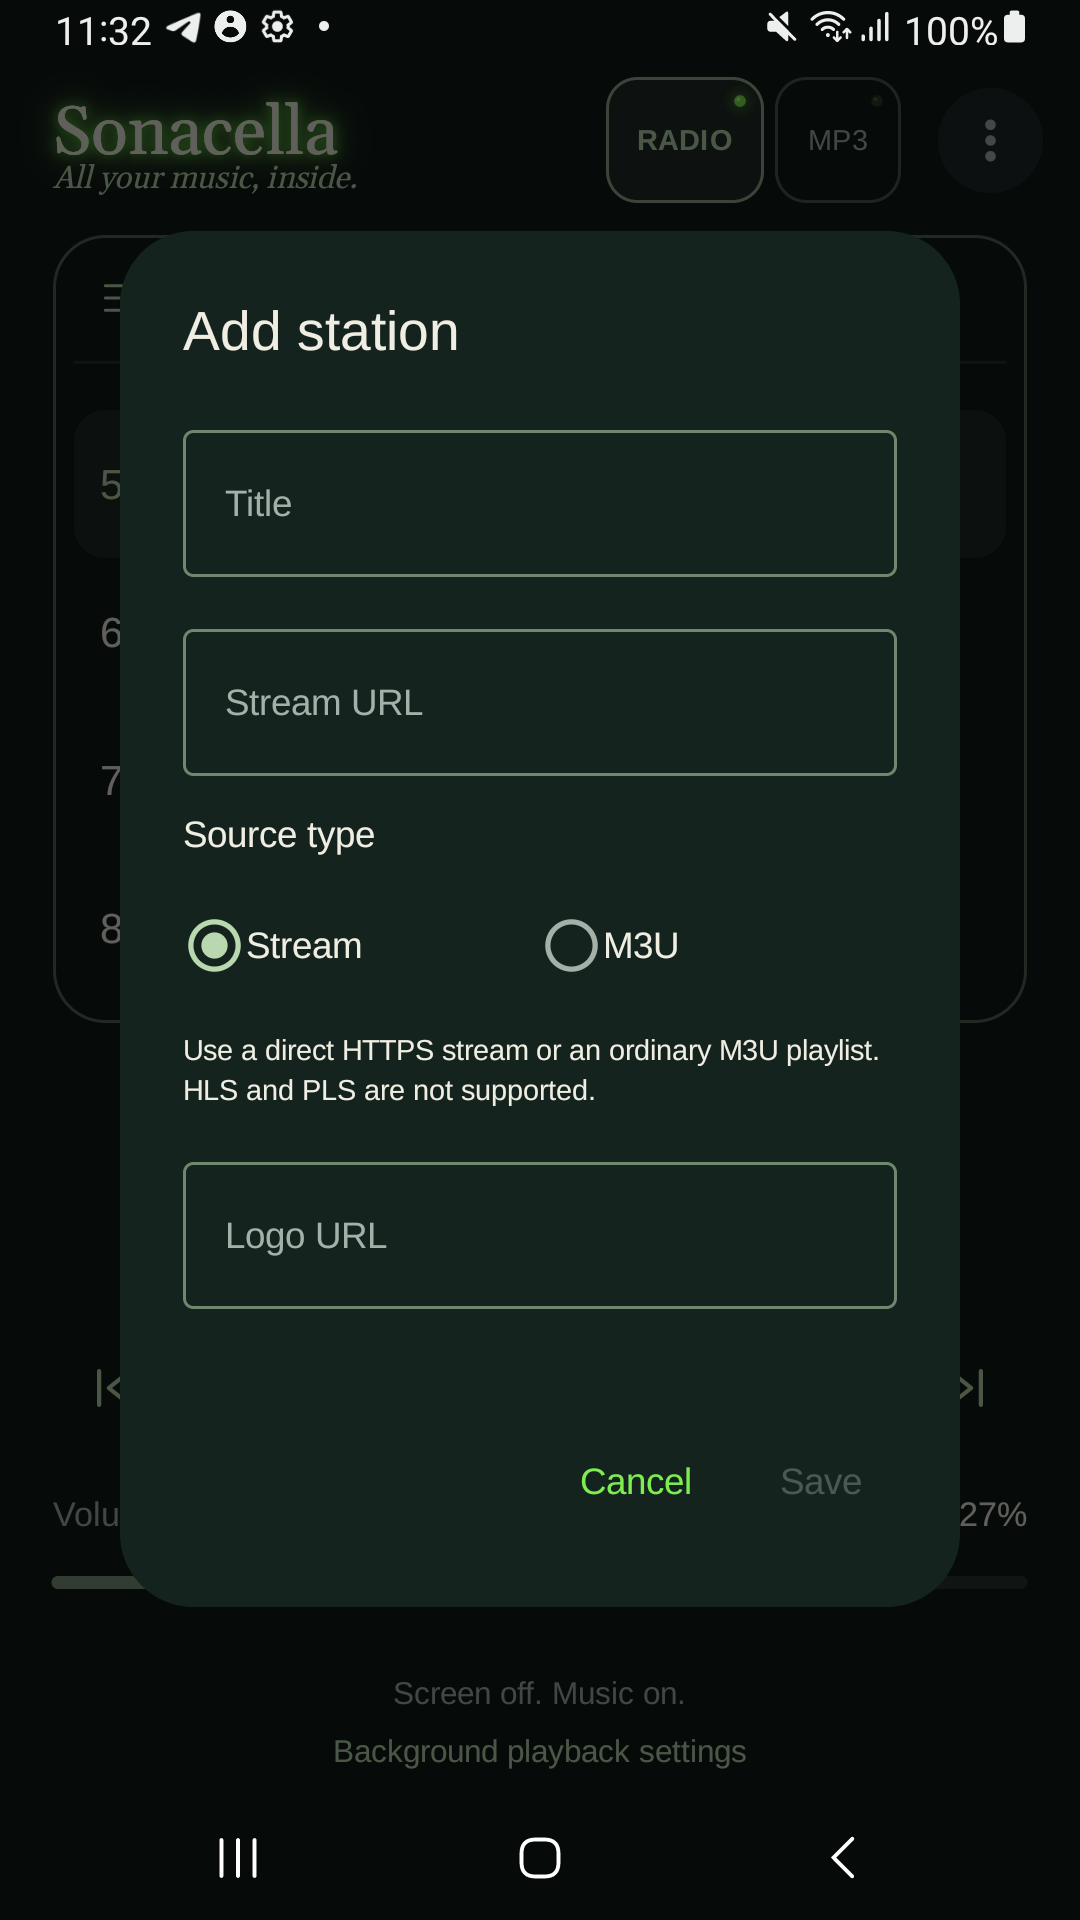
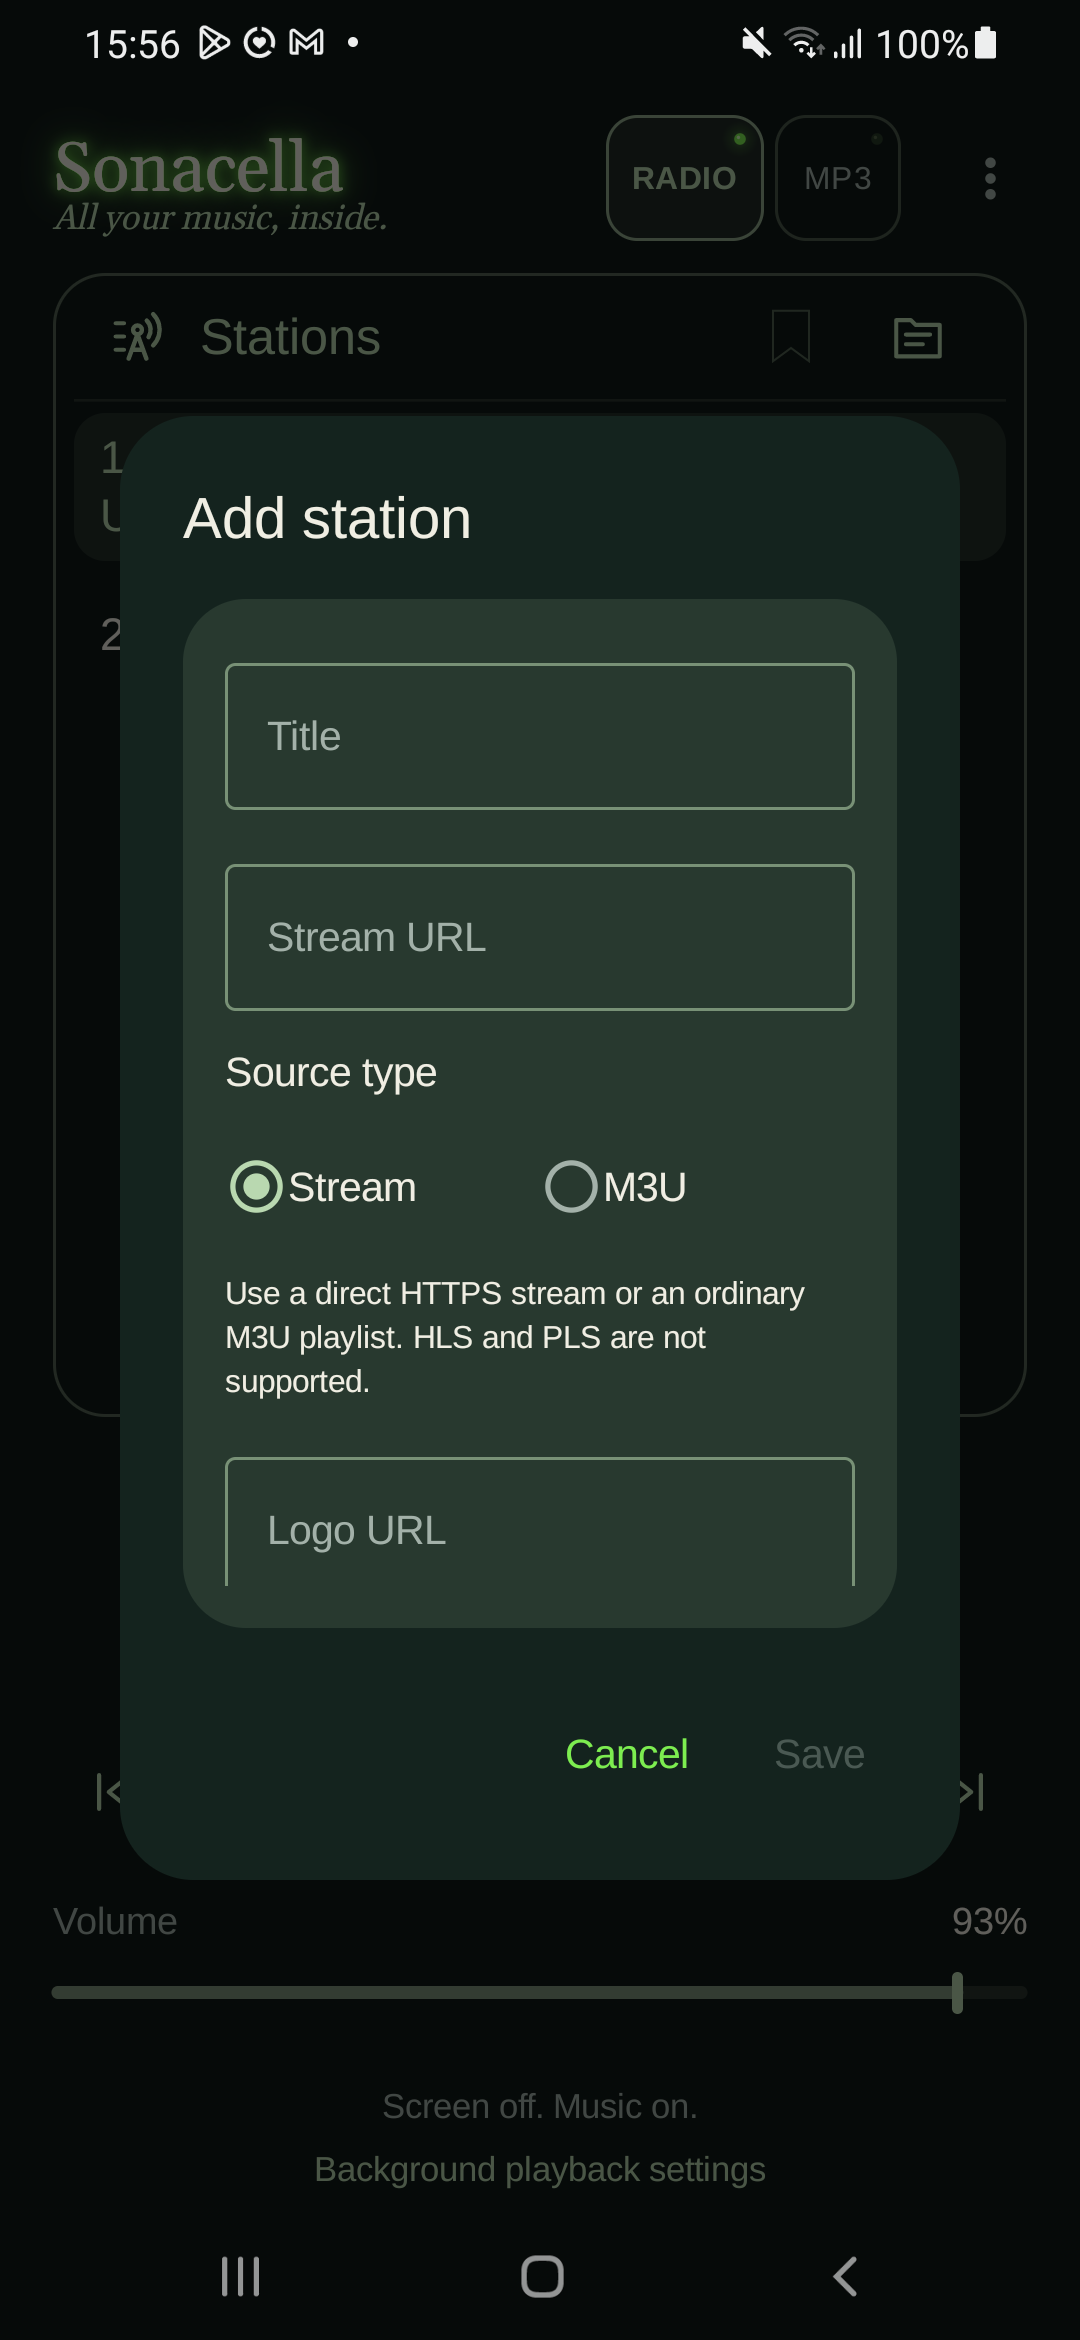
Refresh the Radio and MP3 screenshot galleries

diff --git a/index.html b/index.html
@@ -111,7 +111,16 @@
         </div>
         <figure class="gallery" data-gallery aria-label="Internet radio screenshots">
           <div class="gallery-slides">
-            <a class="screen is-current" href="assets/radio.png" data-caption="Station groups">
+            <a class="screen is-current" href="assets/radio-recording.png" data-caption="Recording a bookmarked track">
+              <img src="assets/radio-recording.png" width="1080" height="2340" alt="Internet radio playing a bookmarked track with a red recording indicator">
+            </a>
+            <a class="screen" href="assets/radio-bookmarks.png" data-caption="Radio bookmarks" inert>
+              <img src="assets/radio-bookmarks.png" width="1080" height="2340" alt="The Bookmarks menu with Bookmark current fragment, Recordings and one saved bookmark">
+            </a>
+            <a class="screen" href="assets/radio-recordings.png" data-caption="Saved radio recordings" inert>
+              <img src="assets/radio-recordings.png" width="1080" height="2340" alt="The Recordings dialog showing a saved radio fragment and its play button">
+            </a>
+            <a class="screen" href="assets/radio.png" data-caption="Station groups" inert>
               <img src="assets/radio.png" width="1080" height="1920" alt="Sonacella playing a jazz station inside an expanded group, with a separate lounge group collapsed below">
             </a>
             <a class="screen" href="assets/radio-groups-collapsed.png" data-caption="Collapsed groups" inert>
@@ -135,18 +144,18 @@
             <a class="screen" href="assets/station-edit.png" data-caption="Edit station" inert>
               <img src="assets/station-edit.png" width="1080" height="1920" alt="The station editor showing the title, logo URL, description, and website fields">
             </a>
-            <a class="screen" href="assets/app-menu.png" data-caption="Radio menu" inert>
-              <img src="assets/app-menu.png" width="1080" height="1920" alt="The radio menu with station creation, catalog import and group-preserving export">
+            <a class="screen" href="assets/radio-add-options.png" data-caption="Add and import stations" inert>
+              <img src="assets/radio-add-options.png" width="1080" height="2340" alt="The Add stations dialog with manual entry, QR scanning, clipboard, catalog import and export">
             </a>
             <a class="screen" href="assets/station-add.png" data-caption="Add a station" inert>
-              <img src="assets/station-add.png" width="1080" height="1920" alt="The Add station form with a title, stream URL, and a choice of HTTPS stream or M3U playlist">
+              <img src="assets/station-add.png" width="1080" height="2340" alt="The Add station form with title, stream URL and a choice of HTTPS stream or M3U playlist">
             </a>
           </div>
           <figcaption class="gallery-controls">
             <button type="button" data-step="-1" aria-label="Previous radio screenshot" hidden>
               <svg aria-hidden="true" viewBox="0 0 24 24" width="20" height="20"><use href="#track-skip"/></svg>
             </button>
-            <span class="gallery-caption" data-caption-live aria-live="polite">Station groups</span>
+            <span class="gallery-caption" data-caption-live aria-live="polite">Recording a bookmarked track</span>
             <button type="button" data-step="1" aria-label="Next radio screenshot" hidden>
               <svg aria-hidden="true" viewBox="0 0 24 24" width="20" height="20"><use href="#track-skip"/></svg>
             </button>
@@ -166,17 +175,20 @@
             <a class="screen is-current" href="assets/mp3.png" data-caption="Local playlist">
               <img src="assets/mp3.png" width="1080" height="1920" alt="A local MP3 playlist with the current track's playback position">
             </a>
+            <a class="screen" href="assets/mp3-radio-recording.png" data-caption="Play a radio recording" inert>
+              <img src="assets/mp3-radio-recording.png" width="1080" height="2340" alt="The Radio recordings playlist playing a saved radio fragment in MP3 mode">
+            </a>
             <a class="screen" href="assets/mp3-menu.png" data-caption="Track menu" inert>
               <img src="assets/mp3-menu.png" width="1080" height="1920" alt="The local MP3 track menu with options to locate the file, remove it from the playlist, or move it">
             </a>
             <a class="screen" href="assets/mp3-app-menu.png" data-caption="MP3 menu" inert>
-              <img src="assets/mp3-app-menu.png" width="1080" height="1920" alt="The MP3 menu showing Add link, Add files, Add timing file, and Playlists">
+              <img src="assets/mp3-app-menu.png" width="1080" height="2340" alt="The MP3 menu with Add link, Add files, Add timing file, Playlists and Sleep timer">
             </a>
             <a class="screen" href="assets/mp3-add-link.png" data-caption="Add link" inert>
-              <img src="assets/mp3-add-link.png" width="1080" height="1920" alt="The Add link dialog with a URL field and instructions for sharing a Google Drive file or folder">
+              <img src="assets/mp3-add-link.png" width="1080" height="2340" alt="The Add link dialog with a field for an HTTPS link and instructions for shared Google Drive files and folders">
             </a>
-            <a class="screen" href="assets/drive-playlist.png" data-caption="Drive playlist" inert>
-              <img src="assets/drive-playlist.png" width="720" height="1600" alt="An MP3 playlist containing Google Drive and local files">
+            <a class="screen" href="assets/mp3-drive-import.png" data-caption="Import Drive folder" inert>
+              <img src="assets/mp3-drive-import.png" width="1080" height="2340" alt="Import Drive folder dialog with a field for a public Google Drive folder link">
             </a>
           </div>
           <figcaption class="gallery-controls">
